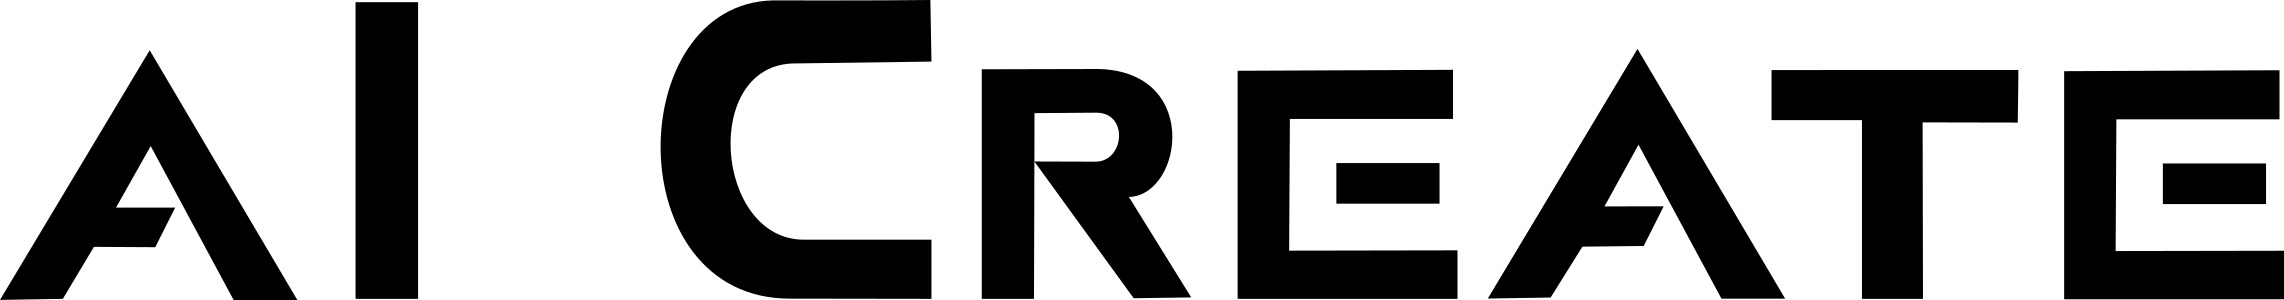
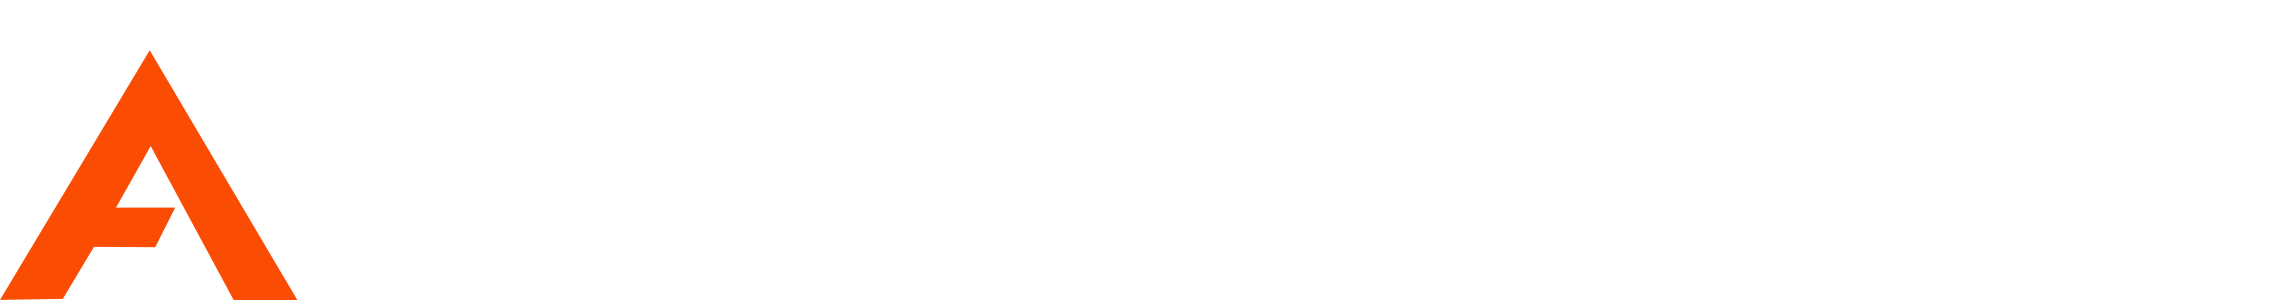
pricing and agenda changes

diff --git a/components/Agenda/Agenda.tsx b/components/Agenda/Agenda.tsx
@@ -3,15 +3,12 @@ import React, { useState } from "react";
 import SpotlightButton from "../Button/SpotlightButton";
 import SalaKolumnowa from "./SalaKolumnowa";
 import SalaMalinowa from "./SalaMalinowa";
-import SalaNiebieska from "./SalaNiebieska";
 
 const returnAgenda = (num: number) => {
   if (num === 1) {
     return <SalaKolumnowa />;
   } else if (num === 2) {
     return <SalaMalinowa />;
-  } else if (num === 3) {
-    return <SalaNiebieska />;
   }
 
   return <h4 className="text-4xl font-bold">Wybierz salę</h4>;
@@ -25,13 +22,10 @@ const Agenda = () => {
       <h3 className="text-4xl font-bold">Agenda wydarzenia</h3>
       <div className="flex flex-col md:flex-row gap-12 w-full py-4">
         <div className="w-full" onClick={() => setAgenda(1)}>
-          <SpotlightButton>Sala Kolumnowa</SpotlightButton>
+          <SpotlightButton>Część Konferencyjna</SpotlightButton>
         </div>
         <div className="w-full" onClick={() => setAgenda(2)}>
-          <SpotlightButton>Sala Malinowa</SpotlightButton>
-        </div>
-        <div className="w-full" onClick={() => setAgenda(3)}>
-          <SpotlightButton>Sala Niebieska</SpotlightButton>
+          <SpotlightButton>Warsztaty</SpotlightButton>
         </div>
       </div>
       {returnAgenda(agenda)}

diff --git a/components/Pricing/PricingCard.tsx b/components/Pricing/PricingCard.tsx
@@ -1,0 +1,30 @@
+interface Props {
+  name: string;
+  cost: number;
+  desc: string;
+  link: string;
+}
+const PricingCard = ({ name, cost, desc, link }: Props) => {
+  return (
+    <div className=" w-[23rem] p-8 rounded-xl flex flex-col items-center justify-center gap-8 group relative overflow-hidden h-[36rem] hover:scale-105 duration-500">
+      <h5 className="text-6xl font-bold text-start h-32 flex items-center">
+        {name}
+      </h5>
+      <p className="text-6xl py-4 border-y-2 border-white w-full border-dashed">
+        {cost}
+        <span className="text-xl"> zł / netto + VAT</span>
+      </p>
+      <p className="text-center text-2xl font-light">{desc}</p>
+      <a
+        href={link}
+        className="px-6 py-2 text-xl bg-white text-secondary rounded-full hover:scale-110 hover:font-bold active:scale-100 duration-200 "
+      >
+        Kup Bilet
+      </a>
+      <div className="absolute w-full h-full top-0 left-0 bg-gradient-to-r from-primary to-primary/0 translate-x-[-110%] group-hover:translate-x-[0%] transition-transform duration-700 z-[-1]" />
+      <div className="absolute group-even:bg-accent bg-secondary inset-0 z-[-2]"></div>
+    </div>
+  );
+};
+
+export default PricingCard;

diff --git a/components/Pricing/Pricing.tsx b/components/Pricing/Pricing.tsx
@@ -1,0 +1,26 @@
+import React from "react";
+import PricingCard from "./PricingCard";
+
+const Pricing = () => {
+  return (
+    <section className="flex flex-col items-center justify-center text-center gap-12 py-12 px-4">
+      <h5 className="text-5xl font-semibold">Twój bilet na AI Create 2024</h5>
+      <div className="flex flex-col md:flex-row gap-8 items-center justify-center">
+        <PricingCard
+          name="Pełen pakiet"
+          cost={700}
+          desc="Pełny dostęp do konferencji oraz praktycznych warsztatów z AI i branży kreatywnej"
+          link=""
+        />
+        <PricingCard
+          name="Standard"
+          cost={500}
+          desc="Udział w konferencji dotyczącej innowacji i trendów w AI i branżach kreatywnych"
+          link=""
+        />
+      </div>
+    </section>
+  );
+};
+
+export default Pricing;

diff --git a/app/page.tsx b/app/page.tsx
@@ -2,6 +2,7 @@ import About from "@/components/About/About";
 import Agenda from "@/components/Agenda/Agenda";
 import AllSpeakers from "@/components/AllSpeakers/AllSpeakers";
 import Hero from "@/components/Hero/Hero";
+import Pricing from "@/components/Pricing/Pricing";
 import Quotes from "@/components/Quotes/Quotes";
 import TopSpeakers from "@/components/TopSpeakers/TopSpeakers";
 
@@ -14,6 +15,7 @@ export default function Home() {
       <TopSpeakers />
       <AllSpeakers />
       <Agenda />
+      <Pricing />
     </main>
   );
 }

diff --git a/components/Footer.tsx b/components/Footer.tsx
@@ -13,7 +13,7 @@ const Footer = () => {
             height={200}
             src="/assets/img/aiCreate.png"
             alt="aI Create logo"
-            className="h-8 md:h-10 lg:h-16 w-auto object-contain invert"
+            className="h-8 md:h-10 lg:h-16 w-auto object-contain"
           />
           <p className="text-lg lg:text-2xl py-2 px-4 md:py-4 md:px-6 rounded-full border-2 border-white w-fit">
             29 Października 2024

diff --git a/components/Agenda/SalaMalinowa.tsx b/components/Agenda/SalaMalinowa.tsx
@@ -7,7 +7,7 @@ const SalaMalinowa = () => {
   return (
     <Fragment>
       {/* spliter */}
-      <div className={STOP_CLASSES + " bg-rose-500"}>
+      <div className={STOP_CLASSES + " bg-secondary"}>
         <FaCircle className="text-sm" />
         Warsztaty
         <FaCircle className="text-sm" />

diff --git a/components/Navbar.tsx b/components/Navbar.tsx
@@ -44,7 +44,7 @@ const Navbar = () => {
           height={100}
           src="/assets/img/aiCreate.png"
           alt="aI Create logo"
-          className="h-4 md:h-6 lg:h-8 w-auto object-contain invert"
+          className="h-4 md:h-6 lg:h-8 w-auto object-contain"
         />
       </Link>
 
